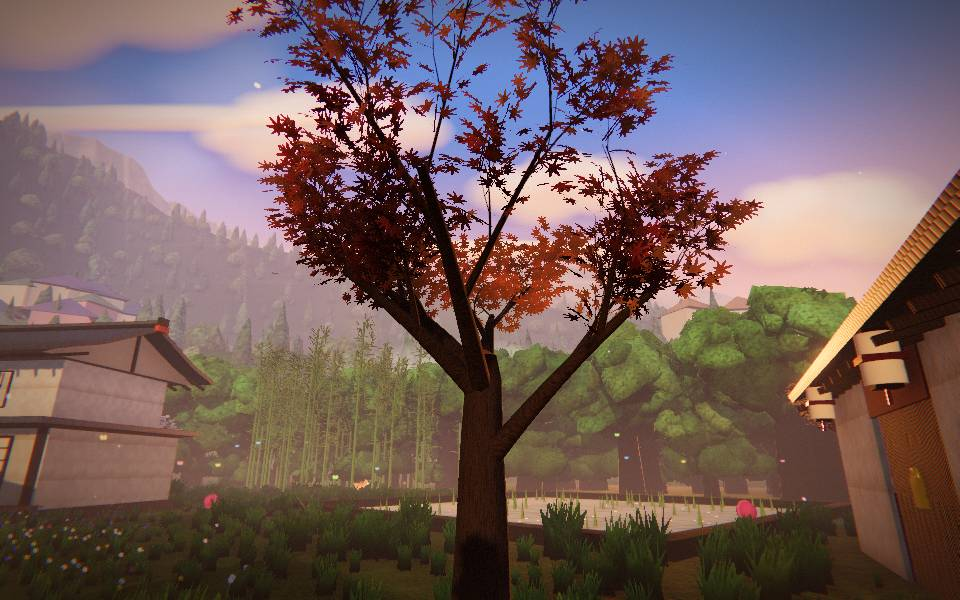
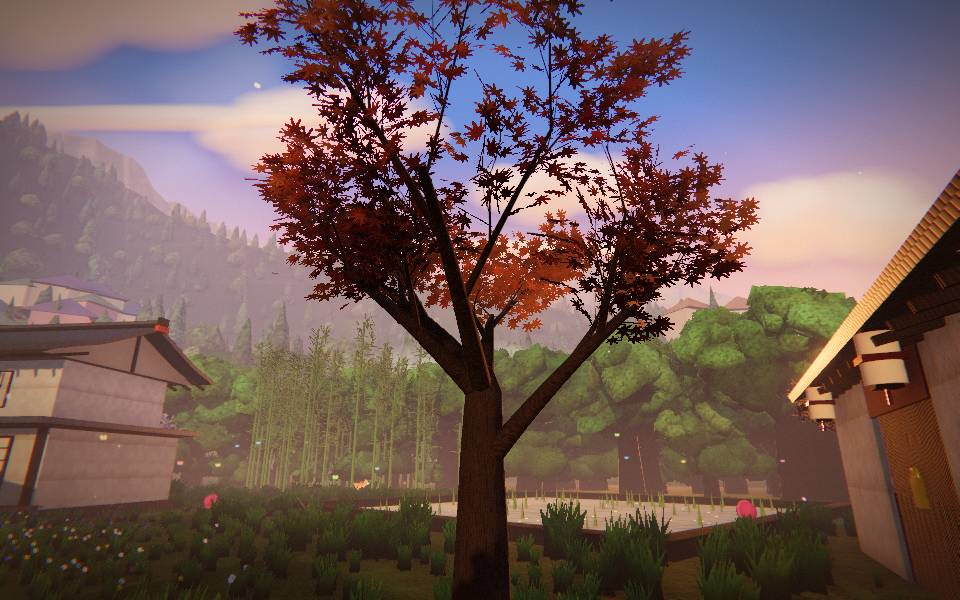
v-trees fix round 1: defer tree-trunks/tree-canopies, fuller crowns, clean fork, bake naming, drift check

diff --git a/src/kit/trees/build.js b/src/kit/trees/build.js
@@ -25,7 +25,7 @@ export const SPECIES = {
     colors: [0xd27a94, 0xeaa2b6, 0xf6c6d2, 0xfbdde6],
     trunk: { rTop: 0.13, rBot: 0.22, h: 2.3, lean: 0.14 },
     canopy: { primaries: 6, tilt: 0.9, tiltVar: 0.2, droop: -0.08, bend: 0.14, branchLen: 1.5, secondaries: 2 },
-    leaves: { habit: 'cloud', twigsPerLimb: 3, sprigs: 2, sprayLen: 0.46, sprayAspect: 1, density: 13, tipSprays: 3, colors: [0xe4a2b6, 0xf0bccb, 0xf8d4de, 0xfde8ee] },
+    leaves: { habit: 'cloud', twigsPerLimb: 3, sprigs: 2, sprayLen: 0.46, sprayAspect: 1, density: 17, tipSprays: 3, colors: [0xe4a2b6, 0xf0bccb, 0xf8d4de, 0xfde8ee] },
     masses: { twigs: false, crownFill: 3, clumpR: 0.5, tuftsPerClump: [3, 3, 2], tuftFlat: 0.74, lump: 0.4, seed: 11 },
     clumps: { crownFill: 3, clumpR: 0.5, tuftsPerClump: [3, 3, 2], cardsPerClump: [10, 9, 6], cardSize: 0.68, tuftFlat: 0.74, lump: 0.4, seed: 11 },
     collider: 0.35, bark: 'warm', buttress: 0.5
@@ -35,7 +35,7 @@ export const SPECIES = {
     colors: [0x8e2d20, 0xc24a34, 0xe0704a, 0xf09060],
     trunk: { rTop: 0.11, rBot: 0.2, h: 2.0, lean: 0.1 },
     canopy: { primaries: 5, tilt: 1.02, tiltVar: 0.18, droop: 0.05, bend: 0.1, branchLen: 1.3, secondaries: 2 },
-    leaves: { habit: 'tier', twigsPerLimb: 3, sprigs: 2, sprayLen: 0.42, density: 14, tipSprays: 3 },
+    leaves: { habit: 'tier', twigsPerLimb: 3, sprigs: 2, sprayLen: 0.42, density: 19, tipSprays: 3 },
     masses: { twigs: false, crownFill: 2, clumpR: 0.44, tuftsPerClump: [3, 2, 2], tuftFlat: 0.55, lump: 0.36, seed: 23 },
     clumps: { crownFill: 2, clumpR: 0.44, tuftsPerClump: [3, 2, 2], cardsPerClump: [10, 9, 6], cardSize: 0.66, tuftFlat: 0.55, lump: 0.36, seed: 23 },
     collider: 0.3, bark: 'grey', buttress: 0.35
@@ -148,7 +148,7 @@ export function buildTrunkGeometry(T, { rTop, rBot, h, lean = 0, tier = 'hero', 
   const ring = radial + 1;
   for (let j = 0; j <= rings; j++) {
     const t = j / rings;
-    const cx = spineX(lean, h, t), cy = t * h;
+    const cx = spineX(lean, h, t), cy = t * h * 0.96;
     const flare = 1 + Math.pow(Math.max(0, 1 - t * 4), 2) * 0.55;
     const r0 = (rBot + (rTop - rBot) * t) * girth * flare;
     const root = Math.pow(Math.max(0, 1 - t * 5), 2) * buttress;
@@ -156,7 +156,7 @@ export function buildTrunkGeometry(T, { rTop, rBot, h, lean = 0, tier = 'hero', 
       const a = (i / radial) * Math.PI * 2;
       const lobe = 1 + root * (0.5 + 0.5 * Math.cos(lobes * a + phase)) * 0.9;
       const wob = 1 + Math.sin(a * 3 + t * 9 + phase) * 0.035;
-      const r = r0 * lobe * wob * (j === rings ? 0.7 : 1);
+      const r = r0 * lobe * wob * (j === rings ? 0.45 : 1);
       pos.push(cx + Math.cos(a) * r, cy, Math.sin(a) * r);
       uv.push((i / radial) * 2, t * h / 1.1);
     }
@@ -169,7 +169,7 @@ export function buildTrunkGeometry(T, { rTop, rBot, h, lean = 0, tier = 'hero', 
   }
   // flat cap at the fork (the limbs start inside it)
   const cap = pos.length / 3;
-  pos.push(spineX(lean, h, 1), h + rTop * 0.5, 0); uv.push(0.5, h);
+  pos.push(spineX(lean, h, 1), h * 0.96 + rTop * 0.25, 0); uv.push(0.5, h);
   for (let i = 0; i < radial; i++) idx.push(rings * ring + i, rings * ring + i + 1, cap);
   const geo = new T.BufferGeometry();
   geo.setAttribute('position', new T.Float32BufferAttribute(pos, 3));
@@ -236,7 +236,7 @@ export function canopyOptions(sp, style, tier, { S = 1, size = 1, density = 1 } 
   base.branchLen = sp.canopy.branchLen * size;
   if (style === 'leaves') {
     const l = { ...sp.leaves };
-    const k = tier === 'hero' ? 1 : 0.5;
+    const k = tier === 'hero' ? 1 : 0.4;
     if (l.habit === 'pad') l.padSprays = Math.max(8, Math.round(l.padSprays * (tier === 'hero' ? 1 : 0.55) * density));
     else {
       l.density = l.density * S * k * density;
@@ -280,8 +280,14 @@ function joinWood(T, trunk, limbs) {
   if (!limbs) return trunk;
   const n = trunk.attributes.position.count;
   if (limbs.attributes.aWind && !trunk.attributes.aWind) trunk.setAttribute('aWind', new T.BufferAttribute(new Float32Array(n * 2), 2));
-  for (const g of [trunk, limbs]) for (const k of Object.keys(g.attributes)) if (!trunk.attributes[k] || !limbs.attributes[k]) g.deleteAttribute(k);
-  if (!trunk.index) trunk.setIndex([...Array(n).keys()]);
+  for (const g of [trunk, limbs]) {
+    for (const k of Object.keys(g.attributes)) {
+      if (trunk.attributes[k] && limbs.attributes[k]) continue;
+      console.warn(`[kit trees] joinWood: attribute '${k}' is on only one of trunk / limbs and is dropped`);
+      g.deleteAttribute(k);
+    }
+  }
+  if (!limbs.index) limbs.setIndex([...Array(limbs.attributes.position.count).keys()]);
   const out = mergeGeometries([trunk, limbs], false);
   trunk.dispose(); limbs.dispose();
   return out;

diff --git a/labs/trees/js/kit.js b/labs/trees/js/kit.js
@@ -10,11 +10,11 @@ export const TREE_WIND = 1.1;
 export const SPECIES = {
   sakura: { label: 'Sakura', jp: '桜', massKey: 'blossom', colors: [0xd27a94, 0xeaa2b6, 0xf6c6d2, 0xfbdde6], bark: 0, buttress: 0.5,
     trunk: { rTop: 0.13, rBot: 0.22, h: 2.3, lean: 0.14 }, canopy: { primaries: 6, tilt: 0.9, tiltVar: 0.2, droop: -0.08, bend: 0.14, branchLen: 1.5, secondaries: 2 },
-    leaves: { habit: 'cloud', twigsPerLimb: 3, sprigs: 2, sprayLen: 0.46, sprayAspect: 1, density: 13, tipSprays: 3, colors: [0xe4a2b6, 0xf0bccb, 0xf8d4de, 0xfde8ee] },
+    leaves: { habit: 'cloud', twigsPerLimb: 3, sprigs: 2, sprayLen: 0.46, sprayAspect: 1, density: 17, tipSprays: 3, colors: [0xe4a2b6, 0xf0bccb, 0xf8d4de, 0xfde8ee] },
     masses: { twigs: false, crownFill: 3, clumpR: 0.5, tuftsPerClump: [3, 3, 2], tuftFlat: 0.74, lump: 0.4, seed: 11 } },
   maple: { label: 'Maple', jp: '紅葉', massKey: 'leaf', colors: [0x8e2d20, 0xc24a34, 0xe0704a, 0xf09060], bark: 1, buttress: 0.35,
     trunk: { rTop: 0.11, rBot: 0.2, h: 2.0, lean: 0.1 }, canopy: { primaries: 5, tilt: 1.02, tiltVar: 0.18, droop: 0.05, bend: 0.1, branchLen: 1.3, secondaries: 2 },
-    leaves: { habit: 'tier', twigsPerLimb: 3, sprigs: 2, sprayLen: 0.42, density: 14, tipSprays: 3 },
+    leaves: { habit: 'tier', twigsPerLimb: 3, sprigs: 2, sprayLen: 0.42, density: 19, tipSprays: 3 },
     masses: { twigs: false, crownFill: 2, clumpR: 0.44, tuftsPerClump: [3, 2, 2], tuftFlat: 0.55, lump: 0.36, seed: 23 } },
   needle: { label: 'Pine', jp: '松', massKey: 'needle', colors: [0x24401f, 0x33582f, 0x4a7040, 0x5f8850], bark: 2, buttress: 0.2,
     trunk: { rTop: 0.09, rBot: 0.17, h: 1.9, lean: 0.2 }, canopy: { primaries: 4, tilt: 1.05, tiltVar: 0.28, droop: 0.12, bend: 0.06, branchLen: 1.45, secondaries: 2 },
@@ -31,12 +31,12 @@ export function trunkGeometry({ rTop, rBot, h, lean = 0, radial = 14, rings = 12
     const t = j / rings, flare = 1 + Math.pow(Math.max(0, 1 - t * 4), 2) * 0.55, r0 = (rBot + (rTop - rBot) * t) * girth * flare;
     const root = Math.pow(Math.max(0, 1 - t * 5), 2) * buttress;
     for (let i = 0; i <= radial; i++) {
-      const a = (i / radial) * Math.PI * 2, r = (j === rings ? 0.7 : 1) * r0 * (1 + root * (0.5 + 0.5 * Math.cos(5 * a + phase)) * 0.9) * (1 + Math.sin(a * 3 + t * 9 + phase) * 0.035);
-      pos.push(spineX(lean, h, t) + Math.cos(a) * r, t * h, Math.sin(a) * r); uv.push((i / radial) * 2, t * h / 1.1);
+      const a = (i / radial) * Math.PI * 2, r = (j === rings ? 0.45 : 1) * r0 * (1 + root * (0.5 + 0.5 * Math.cos(5 * a + phase)) * 0.9) * (1 + Math.sin(a * 3 + t * 9 + phase) * 0.035);
+      pos.push(spineX(lean, h, t) + Math.cos(a) * r, t * h * 0.96, Math.sin(a) * r); uv.push((i / radial) * 2, t * h / 1.1);
     }
   }
   for (let j = 0; j < rings; j++) for (let i = 0; i < radial; i++) { const a = j * ring + i, b = a + ring; idx.push(a, b, a + 1, b, b + 1, a + 1); }
-  const cap = pos.length / 3; pos.push(spineX(lean, h, 1), h + rTop * 0.5, 0); uv.push(0.5, h);
+  const cap = pos.length / 3; pos.push(spineX(lean, h, 1), h * 0.96 + rTop * 0.25, 0); uv.push(0.5, h);
   for (let i = 0; i < radial; i++) idx.push(rings * ring + i, rings * ring + i + 1, cap);
   const geo = new THREE.BufferGeometry();
   geo.setAttribute('position', new THREE.Float32BufferAttribute(pos, 3)); geo.setAttribute('uv', new THREE.Float32BufferAttribute(uv, 2)); geo.setIndex(idx); geo.computeVertexNormals();
@@ -63,7 +63,7 @@ export function canopyOptions(sp, style, tier, S = 1) {
   if (style === 'leaves') {
     const l = { ...sp.leaves };
     if (l.habit === 'pad') l.padSprays = Math.round(l.padSprays * (tier === 'hero' ? 1 : 0.55));
-    else { l.density = l.density * S * (tier === 'hero' ? 1 : 0.5); if (tier !== 'hero') { l.twigsPerLimb = Math.max(1, l.twigsPerLimb - 1); l.sprigs = 1; l.tipSprays = 2; } }
+    else { l.density = l.density * S * (tier === 'hero' ? 1 : 0.4); if (tier !== 'hero') { l.twigsPerLimb = Math.max(1, l.twigsPerLimb - 1); l.sprigs = 1; l.tipSprays = 2; } }
     l.sprayLen /= S;
     return Object.assign(base, l, { style: 'leaves' });
   }

diff --git a/src/kit/trees/index.js b/src/kit/trees/index.js
@@ -3,8 +3,7 @@
 //   maples          the garden maples
 //   pines           the niwaki pines
 //   rim-trees       any of the three past r = 39 m, as painted leaf masses
-//   tree-trunks     the trunk and bare limbs on their own (reusable component)
-//   tree-canopies   one canopy on its own: leaves | masses | clumps (the summit's habit)
+// Deferred (not assets): tree-trunks / tree-canopies; buildSkeleton / buildCanopyOnly are exported building blocks.
 // Reusable builders: buildTree, buildTrunkGeometry, addCanopy, SPECIES (see build.js).
 import { defineAsset } from '../contract.js?v=20261113a';
 import { buildTree, addCanopy, buildTrunkGeometry, spineX, SPECIES, TREE_PARAMS, sampleLayout, KIND_OF_ID } from './build.js?v=20261113a';
@@ -52,25 +51,10 @@ export const assets = [
     // the heaviest rim tree: a sakura (six primaries, three-tuft clumps) at the rim
     sample: sampleLayout('sakura', { scale: 1.15, rim: true }),
     build: (ctx, layout, p) => buildTree(ctx, layout, p, KIND_OF_ID[layout.kind] || layout.kind)
-  }),
-  defineAsset({
-    id: 'tree-trunks', family: 'trees', lab: 'trees/trunk', label: 'Tree trunks and limbs',
-    params: {
-      species: { type: 'enum', default: 'sakura', options: ['sakura', 'maple', 'needle'], label: 'Species' },
-      trunk_girth: TREE_PARAMS.trunk_girth
-    },
-    tiers: ['hero', 'mid', 'far'], sample: { index: 0, x: 0, y: 0, z: 0, scale: 1.3, band: 'near' },
-    build: buildSkeleton
-  }),
-  defineAsset({
-    id: 'tree-canopies', family: 'trees', lab: 'trees/canopy', label: 'Leaf sprays and clumped / mass canopies',
-    params: {
-      species: { type: 'enum', default: 'sakura', options: ['sakura', 'maple', 'needle'], label: 'Species' },
-      style: { type: 'enum', default: 'leaves', options: ['leaves', 'masses', 'clumps'], label: 'Canopy style' },
-      crown_spread: TREE_PARAMS.crown_spread,
-      leaf_density: TREE_PARAMS.leaf_density
-    },
-    tiers: ['hero', 'mid', 'far'], floating: ['limbs', 'leaves', 'tufts', 'leaf_cards'], sample: { index: 0, x: 0, y: 0, z: 0, scale: 1.3, band: 'near' },
-    build: buildCanopyOnly
   })
 ];
+
+// DEFERRED ids `tree-trunks` and `tree-canopies` (v-trees review r1): Vegetation never routes to them, there is no
+// consumer or compare pair yet, and the lab has no clumps specimen. Their builders stay as building blocks for
+// s2-clearing, which should promote them with a summit compare.
+export { buildSkeleton, buildCanopyOnly };

diff --git a/labs/trees/index.html b/labs/trees/index.html
@@ -83,7 +83,7 @@
 
   <script>
     if (location.protocol === 'file:') {
-      document.getElementById('wake').textContent = 'Serve the repository over HTTP: python3 -m http.server 8000, then open localhost:8000/labs/greenery/.';
+      document.getElementById('wake').textContent = 'Serve the repository over HTTP: python3 -m http.server 8000, then open localhost:8000/labs/trees/.';
     } else {
       const s = document.createElement('script'); s.type = 'module'; s.src = 'js/main.js'; document.body.append(s);
       s.addEventListener('error', () => { document.getElementById('wake').textContent = 'The lab could not load. Check your connection to the Three.js CDN and reload.'; });

diff --git a/src/vegetation.js b/src/vegetation.js
@@ -218,7 +218,7 @@ export class Vegetation {
       for (const key of out.bake) {
         const m = out.parts[key];
         if (!m || !m.geometry) continue;
-        this._bakeStatic(m.geometry.clone(), m.matrixWorld, m.material, m.customDepthMaterial || null, 'Trunks & Canopy');
+        this._bakeStatic(m.geometry.clone(), m.matrixWorld, m.material, m.customDepthMaterial || null, key === 'leaves' ? 'Canopy Leaves' : layout.rim ? 'Trunks & Canopy' : 'Canopy Limbs');
         m.parent.remove(m);
       }
     }

diff --git a/docs/fable/handoff/v-trees.md b/docs/fable/handoff/v-trees.md
@@ -33,7 +33,7 @@ const c = addCanopy(ctx, group, SPECIES.maple, 'clumps', ctx.tier, { S: 1, size:
 ```
 or build the `tree-canopies` asset with `style: 'clumps'`. 'clumps' draws tuft cores + leaf cards (`km`-free foliage materials, one set per species, ref-counted: `release()` frees them when the last tree goes). Everything is drawn from `ctx.rng`; nothing touches `this.rng`.
 
-## Hot-file patch: Vegetation bake hook (src/vegetation.js, optional, saves draws)
+## Vegetation bake hook: ALREADY APPLIED (committed in src/vegetation.js under the R47 grant; do not apply again)
 Kit trees put their wood and leaves in two meshes per tree instead of the classic per-material static merges (trunks merged globally, rim canopies merged). The kit instance lists `bake` (part keys) when `layout.bake` is true; this lets Vegetation fold those into the same `_staticAccum` merges the classic path uses. In `canopyTree()`, after `if (!isAssetInstance(out)) return out;` add:
 ```js
     if (layout.bake && out.bake && out.bake.length) {
@@ -46,7 +46,7 @@ Kit trees put their wood and leaves in two meshes per tree instead of the classi
       }
     }
 ```
-Without it everything works; with it the rim and far trees add no draws of their own (measured below).
+The patch below is shown for reference only. Without it everything works; with it the rim and far trees add no draws of their own (measured below).
 
 ## Helpers to move
 None (the trunk builder lives in src/kit/trees/build.js; the study copy is in labs/trees/js/kit.js; keep them in step).
@@ -67,3 +67,8 @@ New kit materials: 0 new (bark is `km.bark` with the classic three bark textures
 | modular high, with the bake hook | 778 | 8.18M |
 | modular medium, with the bake hook | 767 / 589 | 6.96M / 5.88M |
 Without the hook, +46 shadow-refresh calls (about 23 per pass): the 19 near trees keep two draws each as classic did, but the six rim and far trees and the trunks that classic merged globally now draw on their own. Rule "modular medium <= classic high": passes on the mean (621 <= 771) and on triangles; on the shadow-refresh frame it needs the hook (767 <= 771). Recommend applying the hook.
+
+## Fix round 1 changes
+- DEFERRED: `tree-trunks` and `tree-canopies` are no longer assets (no routing, no consumer, no compare pair, no clumps specimen). `buildSkeleton` / `buildCanopyOnly` stay exported from src/kit/trees/index.js as building blocks; s2-clearing should promote them with a summit compare. Inventory: leave both ids as not-promoted; only `sakura`, `maples`, `pines`, `rim-trees` map to the trees family (lab specimens `trees/sakura`, `trees/maple`, `trees/pine`, `trees/rim`).
+- Hook names baked meshes 'Canopy Limbs' / 'Canopy Leaves' (near) like classic.
+- Drift check: `node labs/trees/drift_check.mjs` compares the species table, trunk tier detail and taper between the lab study and the kit.
